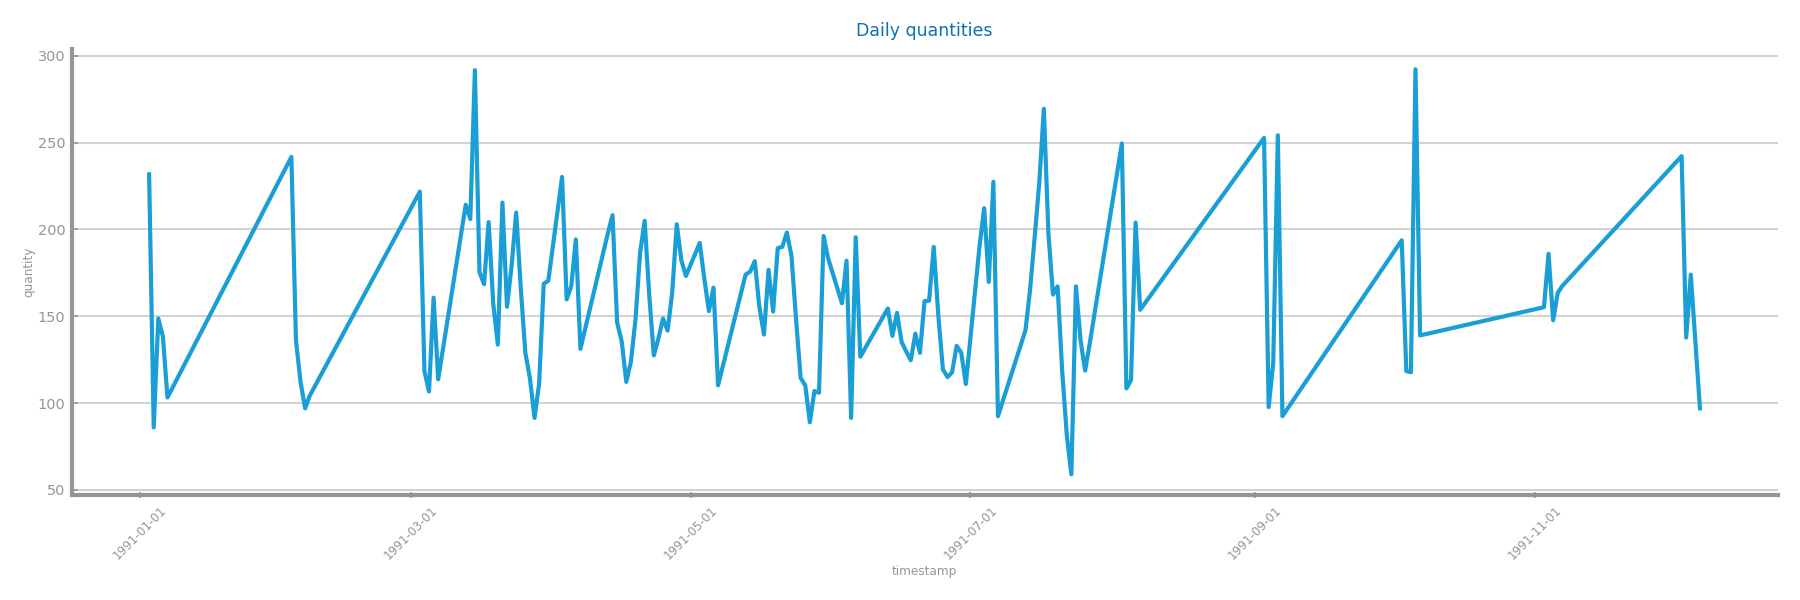
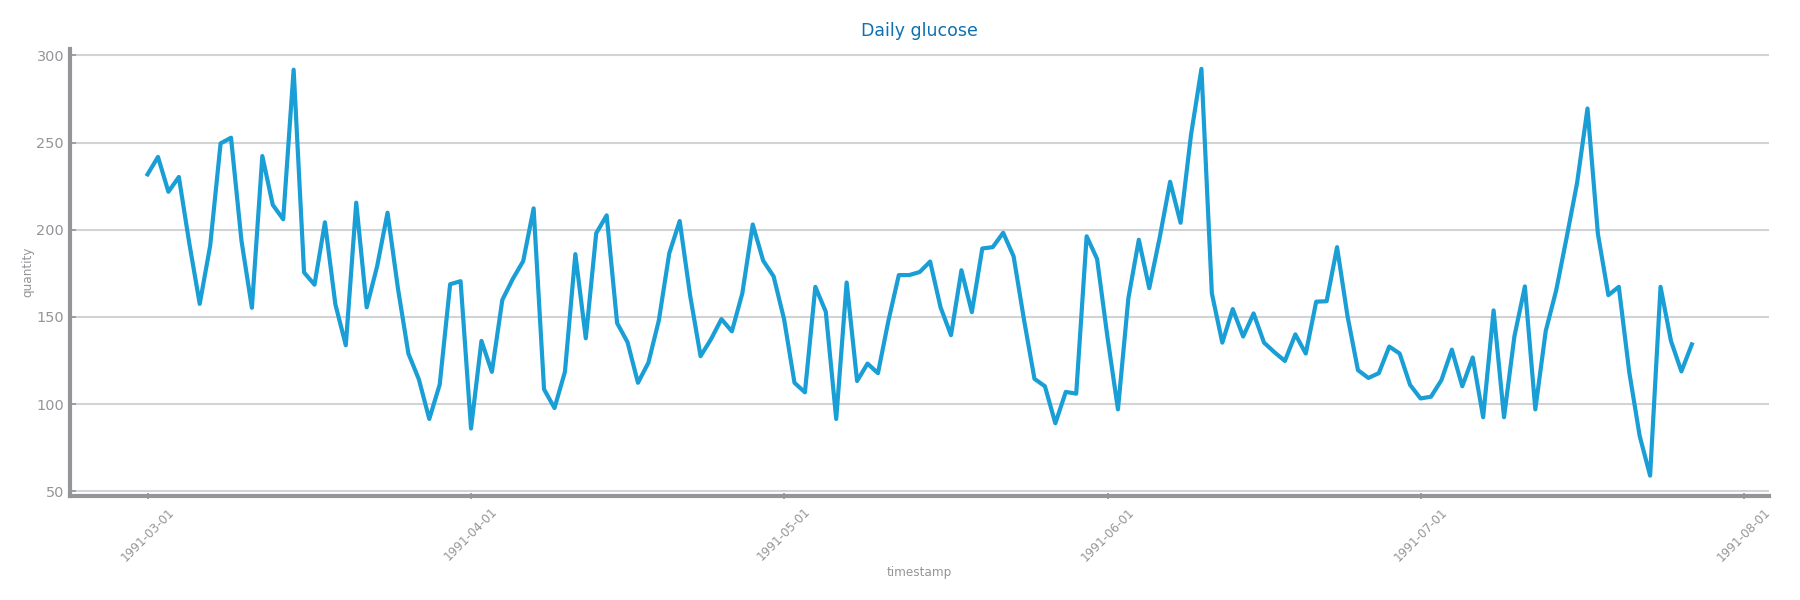
profiling

diff --git a/health_domain/forecasting/analysis_and_preparation/profiling.py b/health_domain/forecasting/analysis_and_preparation/profiling.py
@@ -10,7 +10,7 @@ file_path = f'../datasets/{file_name}.csv'
 
 target = 'Glucose'
 
-data = read_csv(file_path, index_col='Date', sep=',', decimal='.', parse_dates=True, infer_datetime_format=True)
+data = read_csv(file_path, index_col='Date', sep=',', decimal='.', parse_dates=True, infer_datetime_format=True, dayfirst=True)
 
 # remove non-target columns for profiling
 for column in data:
@@ -18,6 +18,8 @@ for column in data:
         data.drop(columns=column, inplace=True)
 # print(data.shape)
 
+# sort data by date
+data.sort_values(by=data.index.name, inplace=True)
 
 # ------------------- #
 # Data Dimensionality #
@@ -27,12 +29,11 @@ print("Nr. Records = ", data.shape[0])
 print("First timestamp", data.index[0])
 print("Last timestamp", data.index[-1])
 figure(figsize=(3*HEIGHT, HEIGHT))
-plot_series(data, x_label='timestamp', y_label='quantity', title='Glucose')
+plot_series(data, x_label='timestamp', y_label='glucose', title='Glucose')
 xticks(rotation = 45)
 tight_layout()
 # show()
 savefig(f'images/profiling/dimensionality.png')
-
 
 # ---------------- #
 # Data Granularity #
@@ -41,7 +42,7 @@ savefig(f'images/profiling/dimensionality.png')
 # Per days
 day_df = data.copy().groupby(data.index.date).mean()
 figure(figsize=(3*HEIGHT, HEIGHT))
-plot_series(day_df, title='Daily quantities', x_label='timestamp', y_label='quantity')
+plot_series(day_df, title='Daily glucose', x_label='timestamp', y_label='quantity')
 xticks(rotation = 45)
 tight_layout()
 # show()
@@ -53,12 +54,11 @@ week_df = data.copy().groupby(index).mean()
 week_df['timestamp'] = index.drop_duplicates().to_timestamp()
 week_df.set_index('timestamp', drop=True, inplace=True)
 figure(figsize=(3*HEIGHT, HEIGHT))
-plot_series(week_df, title='Weekly quantities', x_label='timestamp', y_label='quantity')
+plot_series(week_df, title='Weekly glucose', x_label='timestamp', y_label='quantity')
 xticks(rotation = 45)
 tight_layout()
 # show()
 savefig(f'images/profiling/granularity_weeks.png')
-
 
 # Per months
 index = data.index.to_period('M')
@@ -66,14 +66,13 @@ month_df = data.copy().groupby(index).mean()
 month_df['timestamp'] = index.drop_duplicates().to_timestamp()
 month_df.set_index('timestamp', drop=True, inplace=True)
 figure(figsize=(3*HEIGHT, HEIGHT))
-plot_series(month_df, title='Monthly quantities', x_label='timestamp', y_label='quantity')
+plot_series(month_df, title='Monthly glucose', x_label='timestamp', y_label='quantity')
 tight_layout()
 # show()
 savefig(f'images/profiling/granularity_months.png')
 
 # It does not make sense to do the granularity per quarter since 
 # there the data goes from month 03 to month 07.
-
 
 # ----------------- #
 # Data Distribution #
@@ -103,34 +102,38 @@ week_df.boxplot(ax=axs[1])
 # show()
 savefig(f'images/profiling/distribution.png')
 
-
 # ---------------------- #
 # Variables Distribution #
 # ---------------------- #
 
-bins = (10, 25, 50)
-_, axs = subplots(1, len(bins), figsize=(len(bins)*HEIGHT, HEIGHT))
-for j in range(len(bins)):
-    axs[j].set_title('Histogram for hourly Glucose %d bins'%bins[j])
-    axs[j].set_xlabel('quantity')
-    axs[j].set_ylabel('Nr records')
-    axs[j].hist(data.values, bins=bins[j])
-# show()
-savefig(f'images/profiling/variable_distribution_hourly.png')
+from ds_charts import bar_chart
 
-_, axs = subplots(1, len(bins), figsize=(len(bins)*HEIGHT, HEIGHT))
-for j in range(len(bins)):
-    axs[j].set_title('Histogram for weekly Glucose %d bins'%bins[j])
-    axs[j].set_xlabel('quantity')
-    axs[j].set_ylabel('Nr records')
-    axs[j].hist(week_df.values, bins=bins[j])
-# show()
-savefig(f'images/profiling/variable_distribution_weekly.png')
+bins = ('day', 'week', 'month')
+_, axs = subplots(1, len(bins), figsize=(len(bins)*HEIGHT*2.5, HEIGHT))
 
+# Per days
+day_df = data.copy().groupby(data.index.date)
+counts = index.to_series().astype(str).value_counts()
+bar_chart(counts.index.to_list(), counts.values, ax=axs[0], title='Histogram for daily Glucose: 149 bins', xlabel='glucose', ylabel='nr records', percentage=False)
+
+# Per weeks
+index = data.index.to_period('W')
+counts = index.to_series().astype(str).value_counts()
+bar_chart(counts.index.to_list(), counts.values, ax=axs[1], title='Histogram for weekly Glucose: 22 bins', xlabel='glucose', ylabel='nr records', percentage=False)
+
+# Per months
+index = data.index.to_period('M')
+counts = index.to_series().astype(str).value_counts()
+bar_chart(counts.index.to_list(), counts.values, ax=axs[2], title='Histogram for montly Glucose: 5 bins', xlabel='glucose', ylabel='nr records', percentage=False)
+
+savefig(f'images/profiling/variable_distribution_granularities.png')
 
 # ----------------- #
 # Data Stationarity #
 # ----------------- #
+
+from numpy import ones
+from pandas import Series
 
 dt_series = Series(data['Glucose'])
 
@@ -145,7 +148,7 @@ line += [line[-1]] * (n - len(line))
 mean_line = Series(line, index=dt_series.index)
 series = {'values': dt_series, 'mean': mean_line}
 figure(figsize=(3*HEIGHT, HEIGHT))
-plot_series(series, x_label='time', y_label='quantities', title='Stationary study', show_std=True)
+plot_series(series, x_label='time', y_label='quantities', title='Stationarity study', show_std=True)
 # show()
 savefig(f'images/profiling/stationarity.png')
 
